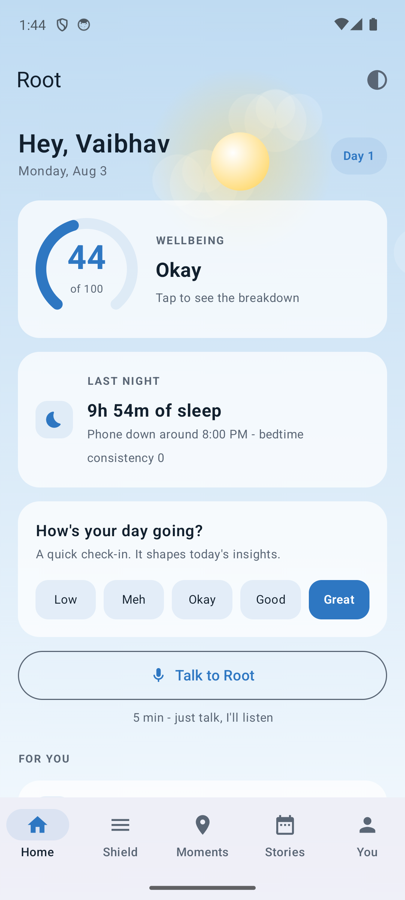
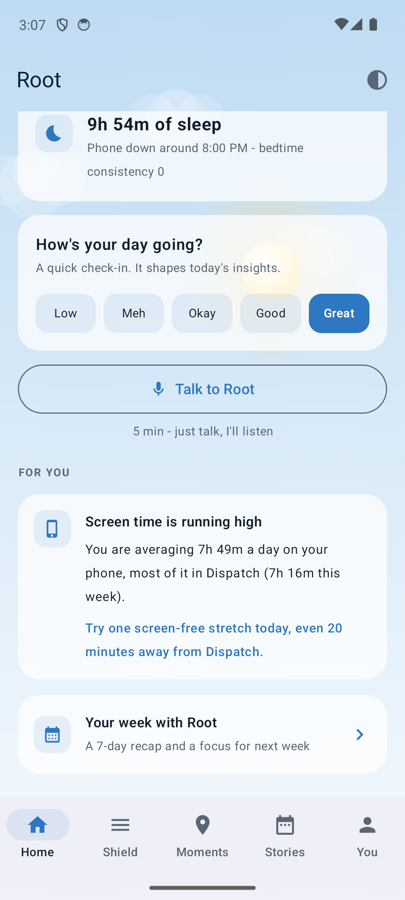
Feature 2/4: weekly review 'Your week with Root' (v0.5.7)
- WeeklyReview.build: aggregates last-7-days screen trend, late-night, sleep avg + consistency,
  meals (weighted eating score), mood, and pauses taken; AI 'focus for next week' with fallback
- WeeklyReviewScreen: headline + stat cards (screen/sleep/eating/mood/pauses) + next-week focus
- Home: 'Your week with Root' entry card -> 'weekly' route (nested, back-arrow)
- WeeklyDigest: Sunday-evening notification via weekly alarm; armed on launch + boot
- Verified on device: Home entry card renders; screen wired (nav tap flaky on the laggy emulator)

Full testDebugUnitTest green; public APK key-free.

diff --git a/app/src/main/java/com/rootapp/ui/weekly/WeeklyReviewScreen.kt b/app/src/main/java/com/rootapp/ui/weekly/WeeklyReviewScreen.kt
@@ -1,0 +1,112 @@
+package com.rootapp.ui.weekly
+
+import androidx.compose.foundation.layout.Column
+import androidx.compose.foundation.layout.Row
+import androidx.compose.foundation.layout.Spacer
+import androidx.compose.foundation.layout.fillMaxSize
+import androidx.compose.foundation.layout.height
+import androidx.compose.foundation.layout.padding
+import androidx.compose.foundation.layout.width
+import androidx.compose.foundation.rememberScrollState
+import androidx.compose.foundation.verticalScroll
+import androidx.compose.material.icons.Icons
+import androidx.compose.material.icons.rounded.Bedtime
+import androidx.compose.material.icons.rounded.PhoneIphone
+import androidx.compose.material.icons.rounded.Restaurant
+import androidx.compose.material.icons.rounded.SelfImprovement
+import androidx.compose.material.icons.rounded.WbSunny
+import androidx.compose.material3.Text
+import androidx.compose.runtime.Composable
+import androidx.compose.runtime.LaunchedEffect
+import androidx.compose.runtime.getValue
+import androidx.compose.runtime.mutableStateOf
+import androidx.compose.runtime.remember
+import androidx.compose.runtime.setValue
+import androidx.compose.ui.Alignment
+import androidx.compose.ui.Modifier
+import androidx.compose.ui.graphics.vector.ImageVector
+import androidx.compose.ui.platform.LocalContext
+import androidx.compose.ui.text.font.FontWeight
+import androidx.compose.ui.unit.dp
+import androidx.compose.ui.unit.sp
+import com.rootapp.data.WeeklyReview
+import com.rootapp.di.AppModule
+import com.rootapp.shield.UsageStatsReader
+import com.rootapp.ui.common.GlassCard
+import com.rootapp.ui.common.IconTile
+import com.rootapp.ui.common.SectionLabel
+import com.rootapp.ui.common.enterUp
+import com.rootapp.ui.theme.LocalRootPalette
+
+@Composable
+fun WeeklyReviewScreen(modifier: Modifier = Modifier) {
+    val palette = LocalRootPalette.current
+    val context = LocalContext.current
+    val data = remember { WeeklyReview.build(context) }
+    var focus by remember { mutableStateOf<String?>(null) }
+    LaunchedEffect(Unit) { focus = WeeklyReview.focusLine(AppModule.llmClient, data) }
+
+    val t = WeeklyReview.trendPct(data)
+    val screenSub = when {
+        t == null -> "first week of data"
+        t < 0 -> "down ${-t}% vs last week"
+        t > 0 -> "up $t% vs last week"
+        else -> "same as last week"
+    }
+
+    Column(
+        modifier.fillMaxSize().verticalScroll(rememberScrollState()).padding(horizontal = 18.dp),
+    ) {
+        Spacer(Modifier.height(10.dp))
+        Text("Your week", fontSize = 26.sp, fontWeight = FontWeight.SemiBold, color = palette.onSurface)
+        Text(WeeklyReview.headline(data), fontSize = 13.sp, color = palette.dim)
+        Spacer(Modifier.height(18.dp))
+
+        StatCard(Icons.Rounded.PhoneIphone, "Screen time", UsageStatsReader.fmt(data.screenThisWeekMin), screenSub, 0)
+        Spacer(Modifier.height(12.dp))
+        StatCard(
+            Icons.Rounded.Bedtime, "Sleep",
+            data.avgSleepMin?.let { UsageStatsReader.fmt(it) + " avg" } ?: "not enough data",
+            if (data.sleepNights > 0) "consistency ${data.bedtimeConsistency ?: "-"} - ${data.sleepNights} nights tracked" else null, 60,
+        )
+        Spacer(Modifier.height(12.dp))
+        StatCard(
+            Icons.Rounded.Restaurant, "Eating",
+            data.eatingScore?.let { "$it/100" } ?: "no meals logged",
+            "${data.healthyMeals} healthy, ${data.junkMeals} junk this week", 120,
+        )
+        Spacer(Modifier.height(12.dp))
+        StatCard(
+            Icons.Rounded.WbSunny, "Mood",
+            data.moodScore?.let { "$it/100" } ?: "no check-ins",
+            "from your check-ins", 180,
+        )
+        Spacer(Modifier.height(12.dp))
+        StatCard(Icons.Rounded.SelfImprovement, "Pauses you took", "${data.pausesTaken}", "times you stepped away", 240)
+        Spacer(Modifier.height(18.dp))
+
+        SectionLabel("Focus for next week")
+        Spacer(Modifier.height(8.dp))
+        GlassCard(Modifier.enterUp(300)) {
+            Text(focus ?: "Thinking it through...", fontSize = 15.sp, fontWeight = FontWeight.Medium, color = palette.accent)
+        }
+        Spacer(Modifier.height(28.dp))
+    }
+}
+
+@Composable
+private fun StatCard(icon: ImageVector, label: String, value: String, sub: String?, delay: Int) {
+    val palette = LocalRootPalette.current
+    GlassCard(Modifier.enterUp(delay)) {
+        Row(verticalAlignment = Alignment.CenterVertically) {
+            IconTile(icon)
+            Spacer(Modifier.width(14.dp))
+            Column {
+                SectionLabel(label)
+                Spacer(Modifier.height(6.dp))
+                Text(value, fontSize = 18.sp, fontWeight = FontWeight.Bold, color = palette.onSurface)
+                if (sub != null) Text(sub, fontSize = 12.sp, color = palette.dim)
+            }
+        }
+    }
+}

diff --git a/app/src/main/java/com/rootapp/data/WeeklyReview.kt b/app/src/main/java/com/rootapp/data/WeeklyReview.kt
@@ -1,0 +1,88 @@
+package com.rootapp.data
+
+import android.content.Context
+import com.rootapp.ai.ChatMessage
+import com.rootapp.ai.LlmClient
+import com.rootapp.shield.ShieldInsights
+import com.rootapp.shield.UsageStatsReader
+import kotlinx.coroutines.withTimeoutOrNull
+import java.time.LocalDate
+
+/** Aggregates the last 7 days across Root's signals into a "Your week" recap. */
+object WeeklyReview {
+
+    data class Data(
+        val screenThisWeekMin: Int,
+        val screenLastWeekMin: Int,
+        val topApp: String?,
+        val topAppMin: Int,
+        val lateNightMin: Int,
+        val sleepNights: Int,
+        val avgSleepMin: Int?,
+        val bedtimeConsistency: Int?,
+        val healthyMeals: Int,
+        val junkMeals: Int,
+        val eatingScore: Int?,
+        val moodScore: Int?,
+        val pausesTaken: Int,
+    )
+
+    fun build(context: Context): Data {
+        val nights = UsageStatsReader.weeklyNights(context).filterNotNull()
+        val store = LocalStore(context)
+        val weekAgo = System.currentTimeMillis() - 7L * 86_400_000
+        val foods = store.foods().filter { it.timestamp >= weekAgo }
+        val todayEpoch = LocalDate.now().toEpochDay()
+        val moods = store.moods().filter { it.epochDay >= todayEpoch - 6 }.map { it.mood }
+        return Data(
+            screenThisWeekMin = UsageStatsReader.thisWeekMinutes(context),
+            screenLastWeekMin = UsageStatsReader.lastWeekMinutes(context),
+            topApp = UsageStatsReader.topApps(context, 1).firstOrNull()?.label,
+            topAppMin = UsageStatsReader.topApps(context, 1).firstOrNull()?.minutes ?: 0,
+            lateNightMin = UsageStatsReader.lateNightMinutesLastWeek(context),
+            sleepNights = nights.size,
+            avgSleepMin = if (nights.isEmpty()) null else nights.sumOf { it.minutes } / nights.size,
+            bedtimeConsistency = UsageStatsReader.bedtimeConsistency(context),
+            healthyMeals = foods.count { it.healthy },
+            junkMeals = foods.count { !it.healthy },
+            eatingScore = Scores.eatingWeighted(foods.map { it.label }),
+            moodScore = if (moods.isEmpty()) null else (moods.average() / 4.0 * 100).toInt(),
+            pausesTaken = store.interruptPaused(),
+        )
+    }
+
+    /** Screen-time week-over-week trend (negative = down/good), null if no prior week. */
+    fun trendPct(d: Data): Int? = ShieldInsights.weekOverWeekPercent(d.screenThisWeekMin, d.screenLastWeekMin)
+
+    fun headline(d: Data): String {
+        val t = trendPct(d)
+        return when {
+            t == null -> "Here's your week with Root."
+            t <= -10 -> "Your screen time is down ${-t}% this week. Well done."
+            t >= 10 -> "Screen time is up $t% this week. Let's ease it back."
+            else -> "A steady week. Small steps from here."
+        }
+    }
+
+    suspend fun focusLine(llm: LlmClient, d: Data): String {
+        val ctx = "screen ${d.screenThisWeekMin}m this week (was ${d.screenLastWeekMin}), top ${d.topApp ?: "n/a"}, " +
+            "late-night ${d.lateNightMin}m, sleep avg ${d.avgSleepMin ?: "n/a"}m consistency ${d.bedtimeConsistency ?: "n/a"}, " +
+            "meals ${d.healthyMeals} healthy/${d.junkMeals} junk, mood ${d.moodScore ?: "n/a"}/100"
+        val prompt = "From this week's wellbeing data, suggest ONE specific, kind focus for next week " +
+            "in 18 words or fewer. Warm, not preachy. No emojis, no quotes. Data: $ctx"
+        val ai = withTimeoutOrNull(6000) {
+            runCatching {
+                llm.complete(listOf(ChatMessage.user(prompt)))
+                    .trim().trim('"').lineSequence().firstOrNull { it.isNotBlank() }?.take(140)
+            }.getOrNull()
+        }
+        return ai?.takeIf { it.isNotBlank() } ?: defaultFocus(d)
+    }
+
+    private fun defaultFocus(d: Data): String = when {
+        d.lateNightMin >= 120 -> "Aim for a screen-free 30 minutes before bed a few nights next week."
+        (trendPct(d) ?: 0) > 0 -> "Pick one time-sink app and set a small daily limit."
+        d.junkMeals > d.healthyMeals -> "Add one vegetable or fruit to a meal each day."
+        else -> "Keep the rhythm going - one small healthy choice a day."
+    }
+}

diff --git a/app/src/main/java/com/rootapp/ui/home/HomeScreen.kt b/app/src/main/java/com/rootapp/ui/home/HomeScreen.kt
@@ -23,6 +23,8 @@ import androidx.compose.material.icons.Icons
 import androidx.compose.material.icons.rounded.AutoAwesome
 import androidx.compose.material.icons.rounded.Bedtime
 import androidx.compose.material.icons.rounded.Bookmark
+import androidx.compose.material.icons.rounded.CalendarMonth
+import androidx.compose.material.icons.rounded.ChevronRight
 import androidx.compose.material.icons.rounded.DirectionsWalk
 import androidx.compose.material.icons.rounded.Mic
 import androidx.compose.material.icons.rounded.PhoneIphone
@@ -70,6 +72,7 @@ import kotlin.math.roundToInt
 fun HomeScreen(
     userName: String,
     onTalk: () -> Unit,
+    onOpenWeekly: () -> Unit = {},
     modifier: Modifier = Modifier,
 ) {
     val palette = LocalRootPalette.current
@@ -316,7 +319,19 @@ fun HomeScreen(
             Spacer(Modifier.height(6.dp))
         }
 
-        // ---- talk CTAs ----
+        // ---- your week entry ----
+        GlassCard(Modifier.enterUp(200).clickable { onOpenWeekly() }, padding = 16.dp) {
+            Row(verticalAlignment = Alignment.CenterVertically) {
+                IconTile(Icons.Rounded.CalendarMonth)
+                Spacer(Modifier.width(14.dp))
+                Column(Modifier.weight(1f)) {
+                    Text("Your week with Root", fontSize = 14.sp, fontWeight = FontWeight.SemiBold, color = palette.onSurface)
+                    Text("A 7-day recap and a focus for next week", fontSize = 12.sp, color = palette.dim)
+                }
+                Icon(Icons.Rounded.ChevronRight, contentDescription = null, tint = palette.accent)
+            }
+        }
+
         Spacer(Modifier.height(24.dp))
     }
 }

diff --git a/app/src/main/java/com/rootapp/shield/WeeklyDigest.kt b/app/src/main/java/com/rootapp/shield/WeeklyDigest.kt
@@ -1,0 +1,40 @@
+package com.rootapp.shield
+
+import android.app.AlarmManager
+import android.app.PendingIntent
+import android.content.BroadcastReceiver
+import android.content.Context
+import android.content.Intent
+import java.util.Calendar
+
+/** Schedules a weekly "Your week with Root is ready" notification for Sunday evening. */
+object WeeklyDigest {
+    private const val REQ = 7003
+
+    private fun pending(ctx: Context): PendingIntent = PendingIntent.getBroadcast(
+        ctx, REQ, Intent(ctx, WeeklyDigestReceiver::class.java),
+        PendingIntent.FLAG_IMMUTABLE or PendingIntent.FLAG_UPDATE_CURRENT,
+    )
+
+    fun schedule(ctx: Context) {
+        val am = ctx.getSystemService(Context.ALARM_SERVICE) as AlarmManager
+        val cal = Calendar.getInstance().apply {
+            set(Calendar.HOUR_OF_DAY, 18); set(Calendar.MINUTE, 0)
+            set(Calendar.SECOND, 0); set(Calendar.MILLISECOND, 0)
+            while (get(Calendar.DAY_OF_WEEK) != Calendar.SUNDAY || timeInMillis <= System.currentTimeMillis()) {
+                add(Calendar.DAY_OF_YEAR, 1)
+            }
+        }
+        am.setInexactRepeating(AlarmManager.RTC_WAKEUP, cal.timeInMillis, 7L * AlarmManager.INTERVAL_DAY, pending(ctx))
+    }
+}
+
+class WeeklyDigestReceiver : BroadcastReceiver() {
+    override fun onReceive(context: Context, intent: Intent) {
+        Nudges.post(
+            context,
+            "Your week with Root is ready",
+            "Tap to open Root and see your 7-day recap - screen time, sleep, meals and mood - plus one gentle focus for next week.",
+        )
+    }
+}

diff --git a/app/src/main/java/com/rootapp/ui/nav/RootScaffold.kt b/app/src/main/java/com/rootapp/ui/nav/RootScaffold.kt
@@ -87,7 +87,7 @@ fun RootScaffold(currentHour: Int = Calendar.getInstance().get(Calendar.HOUR_OF_
         val backStack by navController.currentBackStackEntryAsState()
         val currentRoute = backStack?.destination
         val routeName = currentRoute?.route
-        val isNested = routeName == "reflection" || routeName == "voice"
+        val isNested = routeName == "reflection" || routeName == "voice" || routeName == "weekly"
 
         Box(Modifier.fillMaxSize()) {
         SkyBackground(hour = currentHour, minimalist = minimalist, modifier = Modifier.matchParentSize())
@@ -151,9 +151,11 @@ fun RootScaffold(currentHour: Int = Calendar.getInstance().get(Calendar.HOUR_OF_
                         HomeScreen(
                             userName = userName,
                             onTalk = { navController.navigate("voice") },
+                            onOpenWeekly = { navController.navigate("weekly") },
                         )
                     }
                     composable("reflection") { ReflectionScreen(userName = userName) }
+                    composable("weekly") { com.rootapp.ui.weekly.WeeklyReviewScreen() }
                     composable("voice") {
                         com.rootapp.ui.voice.VoiceSessionScreen(
                             userName = userName,

diff --git a/app/src/main/java/com/rootapp/MainActivity.kt b/app/src/main/java/com/rootapp/MainActivity.kt
@@ -19,8 +19,9 @@ class MainActivity : ComponentActivity() {
             val repo = SupabaseRepository(applicationContext)
             if (repo.loggedIn) repo.ensureSession()
         }
-        // Re-arm the nightly wind-down reminder (alarms are cleared on reboot).
+        // Re-arm the nightly wind-down + weekly digest (alarms are cleared on reboot).
         com.rootapp.shield.WindDown.apply(applicationContext)
+        com.rootapp.shield.WeeklyDigest.schedule(applicationContext)
         setContent {
             RootScaffold()
         }

diff --git a/app/src/main/java/com/rootapp/shield/BootReceiver.kt b/app/src/main/java/com/rootapp/shield/BootReceiver.kt
@@ -16,5 +16,6 @@ class BootReceiver : BroadcastReceiver() {
             runCatching { UsageWatcherService.start(context) }
         }
         runCatching { WindDown.apply(context) }
+        runCatching { WeeklyDigest.schedule(context) }
     }
 }
